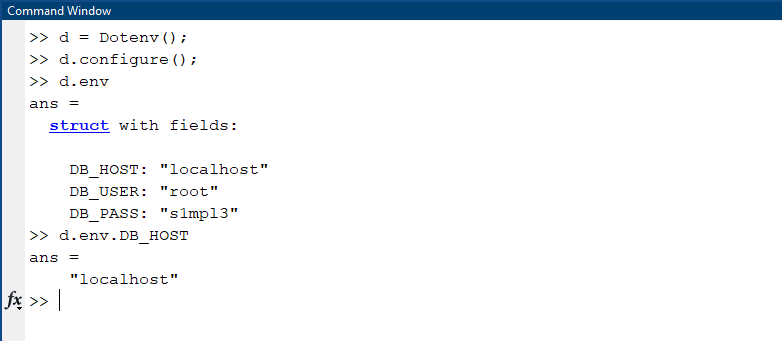
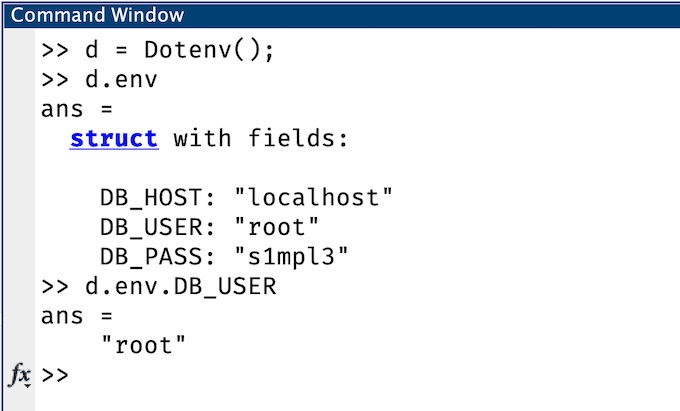
Fixed screenshot and README

diff --git a/README.md b/README.md
@@ -19,7 +19,6 @@ API_KEY=ybvxtzwaxa:r42DtRhuUT7TywYpzBABOFZ0IIomwuIEXnfFVq2VSXjRC
 `file.m`
 ```matlab
 d = Dotenv();
-d.configure();
 opts = weboptions('HeaderField', ["accept", "any"; "authorization", d.env.API_KEY])
 url = "https://myurl.com"
 response = webread(url, opts);
@@ -36,7 +35,7 @@ The parsing engine currently supports the following rules:
 
 ## FAQ
 ### Should I commit my `.env` file?
-No. You should put `.env` in your `.gitignore` file.
+No. You should put `*.env` in your `.gitignore` file.
 
 ## Development Setup
 Clone the repository. You can run `runtests('tests')` from the project root to run the unit test suite.
